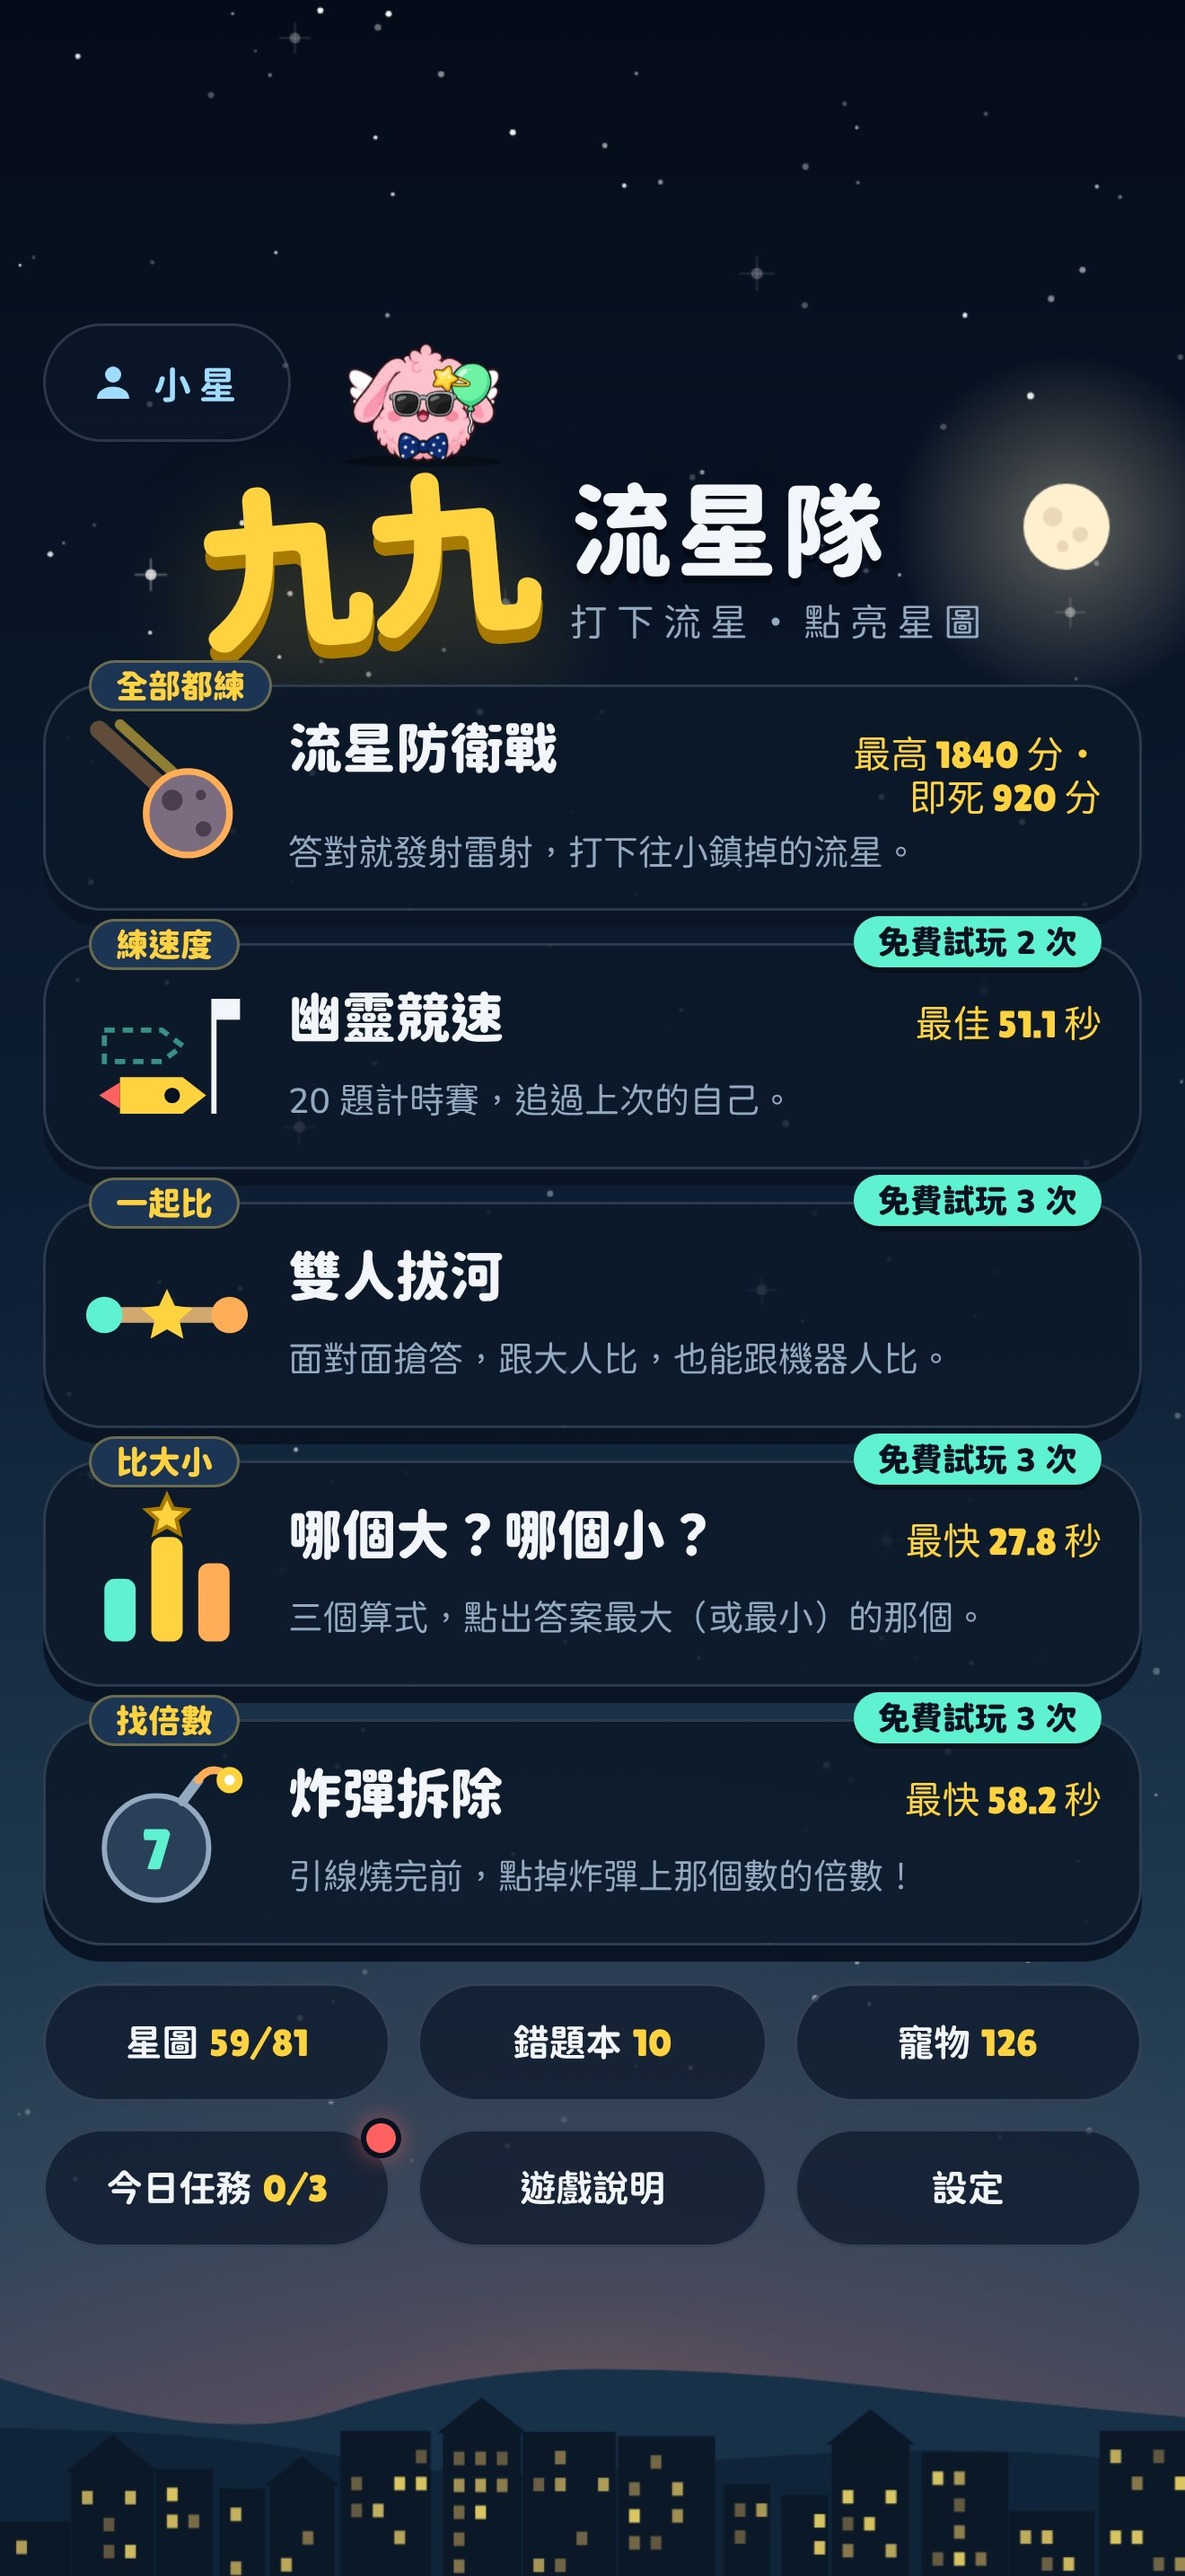
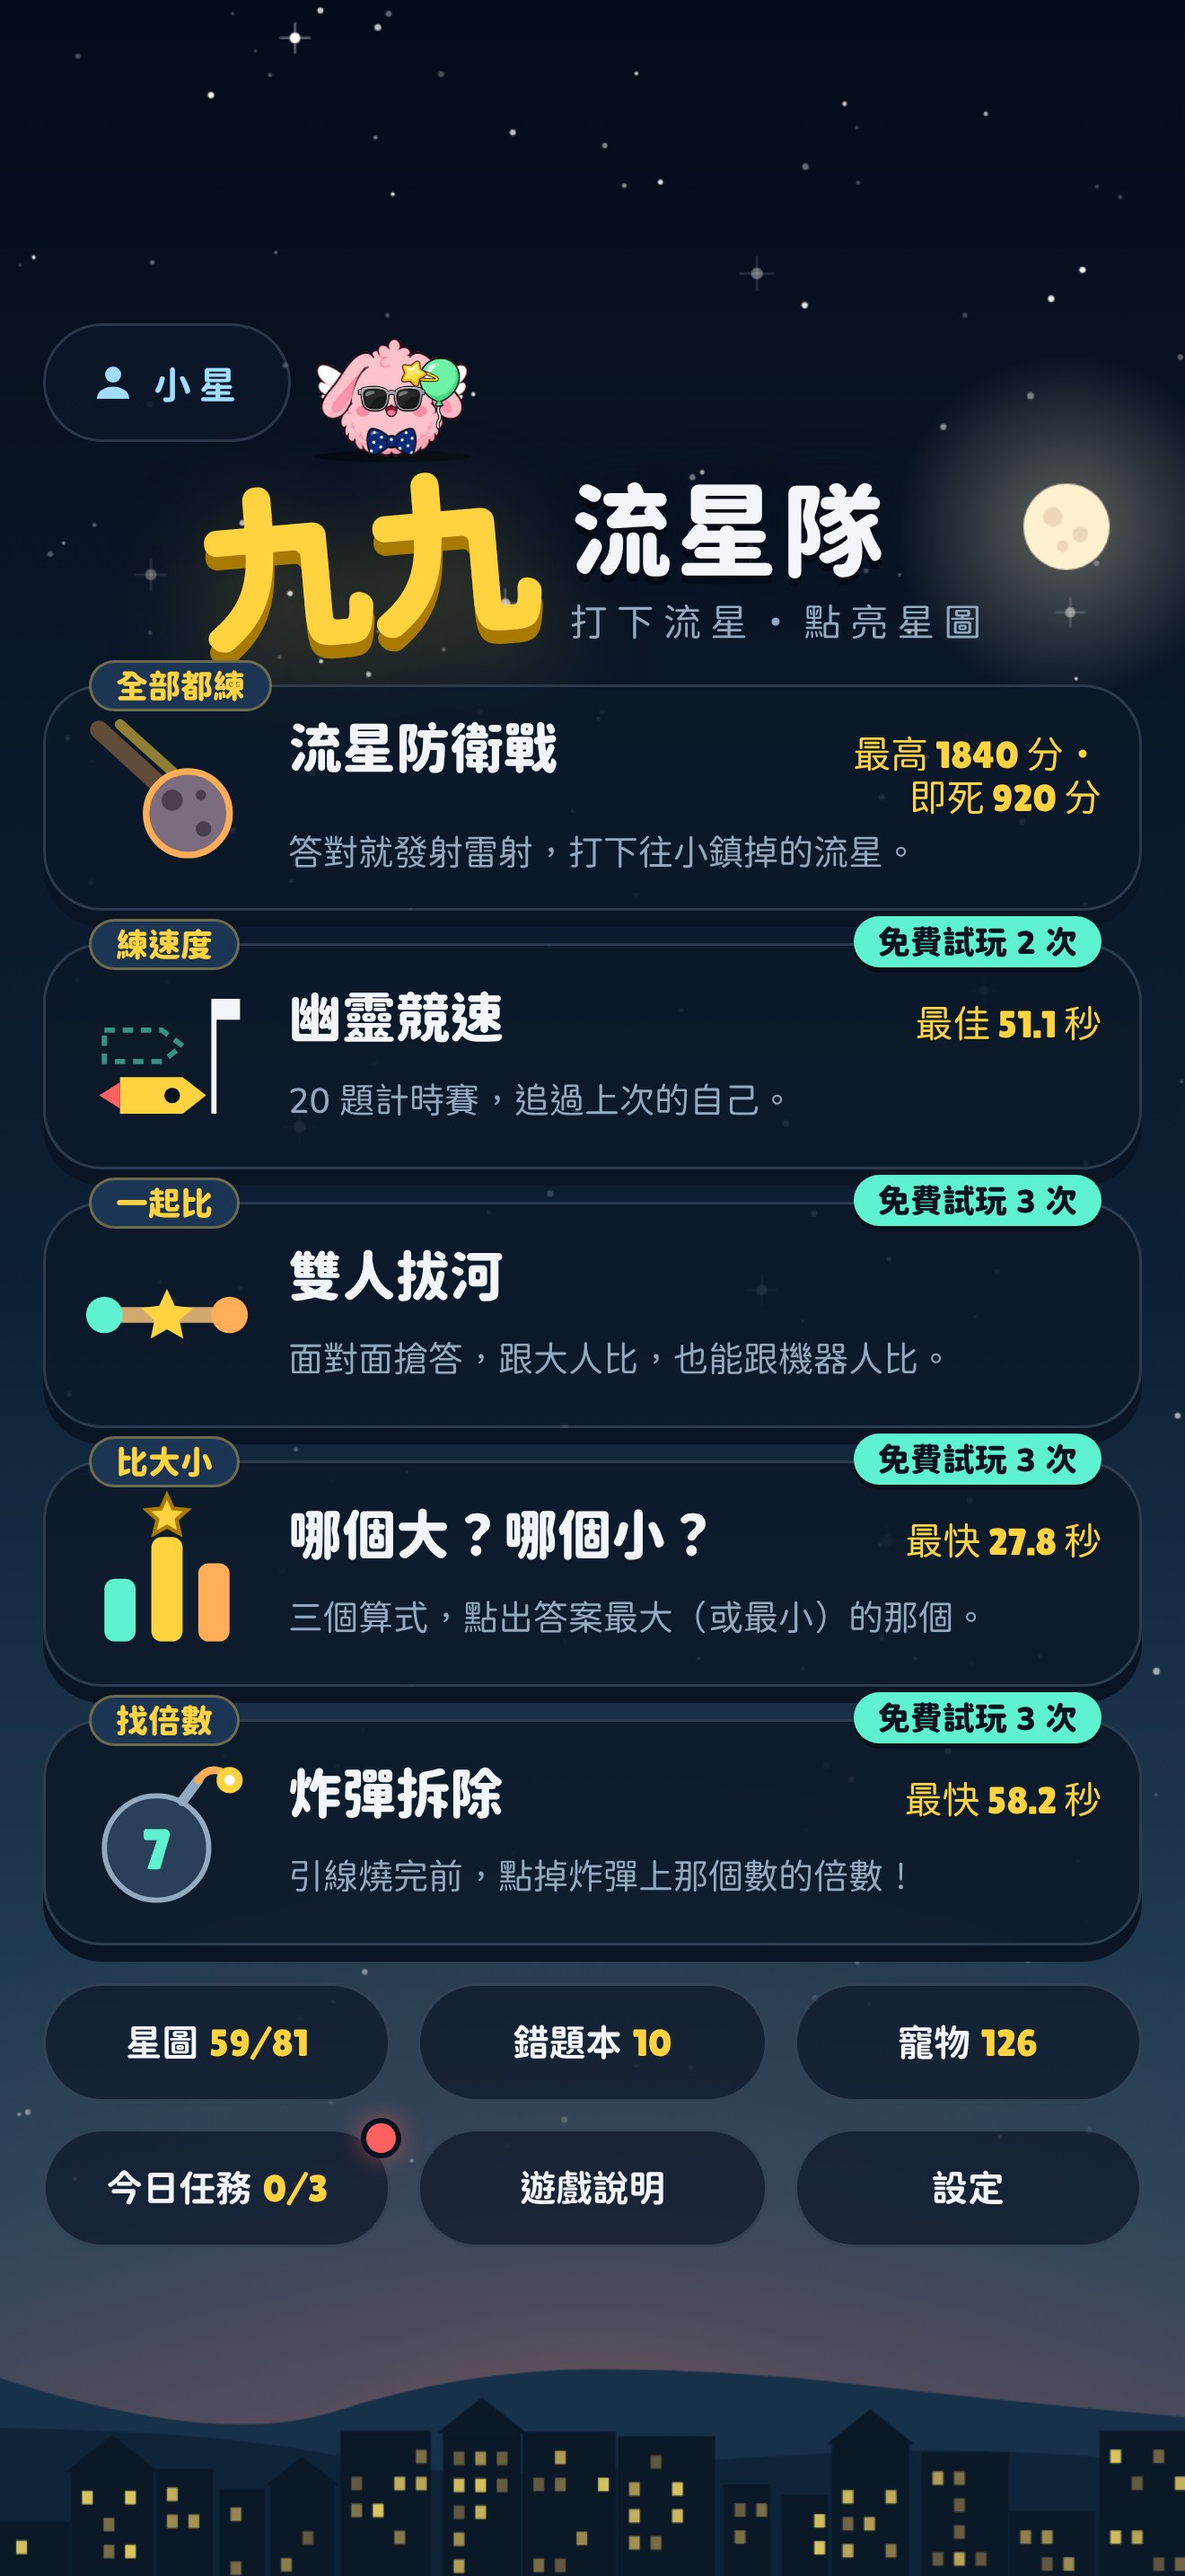
iOS build 號改成 4；截圖工具等開場動畫播完；CLAUDE.md 補上 App 內嵌網頁讀不到折線的來源
Claude-Session: https://claude.ai/code/session_01WtYHKojjdEZ4PPoAyLQNbG

diff --git a/CLAUDE.md b/CLAUDE.md
@@ -138,7 +138,7 @@
 - **開場動畫**：啟動最後 `introStart()` 量好位置後在 `<html>` 加 `.intro`（約 2.6 秒；原本 1.5 秒，實機看太快，流星還沒看清楚就炸了）：一顆寫著「9 × 9」的流星（`.intro-fx` 裡的 `.intro-met`）掉到標題字的位置、雷射從螢幕下緣射上來、炸開（擴散環＋火花）變成標題（中日文「九九」、英文「9×9」），副標滑入、五張遊戲卡依序升上來、下排與「誰在玩」淡入。**用算式不用文字**：三種語言都一樣，一秒內示範玩法，也順便告訴外國人「九九」就是 9 × 9。`--ix`／`--iy`（標題字中心）、`--il`／`--ia`（雷射長度與角度）由 JS 設在 `.intro-fx` 上。只動 `opacity`／`transform`（動 `.brand` 的子元素，不動 `.brand` 本身：月亮與寵物走道量的位置才不變），**不擋點擊**；碰一下螢幕、按鍵或 3 秒後拿掉 `.intro`；減少動態（`RM`）或量不到位置時不播。只在打開 App 那一次，從遊戲回主選單不播。不做獨立的片頭畫面（孩子想馬上玩）。
 - 任何視覺效果都要尊重 `prefers-reduced-motion`（`RM` 旗標）：`spark()` 粒子剩四分之一、`frame()` 不畫全螢幕閃白、`shake()` 不震、`banner()` 改用計時隱藏（CSS 動畫被縮到 .01ms 時 `forwards` 會讓橫幅瞬間消失）。
 - **三種語言版面要一樣**（檢查員量過 320×568 到 1920×1080）：主選單下排 chip 在 ≤ 360px 寬可以把數字換到第二行（英日文「Star Map 0/145」放不下）；日文試玩牌子寫「おためし3回」（「あと」會壓到隔壁卡）；炸彈 SVG `pointer-events:none`（爆炸後放大到看不見仍擋得住 320 寬的「主選單」鈕）；英日字串寫短，不要讓按鈕、標題、跑道名牌比中文多一行；主選單下排 chip 三欄等寬（`minmax(0,1fr)`）；主選單最高分每一項包 `.nw` 不斷行、`.m-t` 可換行（名字加最高分放不下時最高分換到下一行，卡片不撐出螢幕）；日文 `:lang(ja)` 行高統一 1.35（Zen Maru Gothic 預設 1.45、Chiron 1.35）、模式名 18px；短字串 `text-wrap:balance`、長段落 `pretty`（遊戲說明的 `.rules li` 例外用一般換行：iPhone Safari 的 `pretty` 會重排整段，中文有的行只到三分之二就換行）；停用的 `.btn` 是灰色（`.btn:disabled`），會捲動的卡片與畫面（`.card`、`#s-menu`／`#s-map`／`#s-pet`、回家的夥伴清單）`overscroll-behavior:none`（iPhone 捲到頂再往下拉不會橡皮筋回彈把標題列拉下來），不留單一個字在下一行；`.card>*` 不縮（卡片比螢幕高時捲動，不擠扁）；`.topbar` 的返回鈕與計時不折行；矮螢幕（≤ 700px）拔河的名牌藏起來（會壓到繩子），≤ 600px 炸彈說明小字省掉；寵物配件鈕固定 86px 寬、挑蛋區固定寬度。主選單遊戲卡的 `.m-tag` 在 ≤ 600px 高縮小一號（不然第一張卡的標籤貼到「九九」大字）；只練加減／都練的副標 `note.add`／`note.both` 英日文要短到 320 寬一行（兩行主選單會多捲 11px）。
-- **iPhone Duo（摺疊機，2026-10 上市）**：WebKit 官方公布的 Safari 內尺寸（CSS 像素，寬 × 高）：外螢幕直拿 382 × 580～618、內螢幕直拿 669 × 867～902、內螢幕橫拿 951 × 585～620、內螢幕並排兩個視窗 385 × 571～609（App 裡沒有網址列，高度再多一些）；1.4 以前文件寫的 466×678／626×890 是第三方換算的，不對。都走手機版面（內螢幕寬度沒到平板的 700）。內螢幕直拿時**折線是橫的、在螢幕正中間**：`#m-dock` 在「寬 560～699、寬高比 ≥ 13:20、直向」時最小高度是半個螢幕（`50dvh − safe-area-inset-bottom`），流星防衛戰的地平線剛好在折線上（Ian 在 Xcode 模擬器看到地平線原本在折線下面一點）。折線／半折的網頁 API（`device-posture`、`viewport-segments`）在 Safari 27.1 還是功能旗標後面的預覽，內嵌網頁拿不拿得到不明，所以流星只看螢幕形狀（攤平時地平線在正中間也沒壞處）。**哪個大、炸彈只在半折時換版面**（Ian 要求攤平跟一般一樣）：可以點的那一半包在 `.fold-low`（平常 `display:contents`，版面不變），同樣的螢幕形狀再加 `(device-posture:folded)` 或 `(vertical-viewport-segments:2)` 時，題目／炸彈在上半（放大）、三個算式／12 格與「下一顆」在下半（格子縮到 50px 高，爆炸後多了訊息也不超過折線）；系統不回報姿勢時這段永遠不成立。用 Chromium 的姿勢模擬測過（669×867～950），**iPhone Duo 的 App 裡會不會成立還沒驗證**。拔河本來就上下各半。2026-10-23 用舊尺寸檢查過主選單、流星、拔河、星圖、寵物、設定，玩到一半開合、轉橫也正常（畫布每幀核對尺寸、`GY` 每幀跟著鍵盤區）。
+- **iPhone Duo（摺疊機，2026-10 上市）**：WebKit 官方公布的 Safari 內尺寸（CSS 像素，寬 × 高）：外螢幕直拿 382 × 580～618、內螢幕直拿 669 × 867～902、內螢幕橫拿 951 × 585～620、內螢幕並排兩個視窗 385 × 571～609（App 裡沒有網址列，高度再多一些）；1.4 以前文件寫的 466×678／626×890 是第三方換算的，不對。都走手機版面（內螢幕寬度沒到平板的 700）。內螢幕直拿時**折線是橫的、在螢幕正中間**：`#m-dock` 在「寬 560～699、寬高比 ≥ 13:20、直向」時最小高度是半個螢幕（`50dvh − safe-area-inset-bottom`），流星防衛戰的地平線剛好在折線上（Ian 在 Xcode 模擬器看到地平線原本在折線下面一點）。折線／半折的網頁 API（`device-posture`、`viewport-segments`）在 Safari 27.1 還是功能旗標後面的預覽；**App 的內嵌網頁（WKWebView）目前開不了**（Apple 工程師 2026-09 在開發者論壇 thread 848036：兩個都是 Safari 的實驗功能、「cannot be enabled in WKWebView」，建議由原生程式把折線位置傳給網頁；WebKit 原始碼兩個設定的預設值也是關；Android 的 System WebView 同樣關著），所以流星只看螢幕形狀（攤平時地平線在正中間也沒壞處）。**哪個大、炸彈只在半折時換版面**（Ian 要求攤平跟一般一樣）：可以點的那一半包在 `.fold-low`（平常 `display:contents`，版面不變），同樣的螢幕形狀再加 `(device-posture:folded)` 或 `(vertical-viewport-segments:2)` 時，題目／炸彈在上半（放大）、三個算式／12 格與「下一顆」在下半（格子縮到 50px 高，爆炸後多了訊息也不超過折線）；系統不回報姿勢時這段永遠不成立。用 Chromium 的姿勢模擬測過（669×867～950），**依上面 Apple 的說法，iPhone Duo 的 App 裡目前不會成立**（只有 Safari 開了功能旗標才會；請 Ian 在 Xcode 模擬器半折確認過再對外說有這個版面）。要在 App 裡成立得寫原生程式讀折線（`UIView.reservedRegions(kind: .division)`，iOS 27.1 SDK）傳給網頁，或等 Capacitor 9 的 fold／posture API（官方說 coming soon）。上架不需要：審查規範沒有提到 Duo，「Made for iPhone Duo」徽章依 Apple 的截圖規格頁是上傳 Duo 截圖（外 1398×2034、內 2007×2853）就有，2027 年 4 月起送審要附 Duo 截圖。拔河本來就上下各半。2026-10-23 用舊尺寸檢查過主選單、流星、拔河、星圖、寵物、設定，玩到一半開合、轉橫也正常（畫布每幀核對尺寸、`GY` 每幀跟著鍵盤區）。
 - 平板（`min-width:700px` 且 `min-height:700px`）把容器放大一號：模式卡 560、鍵盤 520、卡片 480、星圖 660（12×12 的格子才 ≥ 44px）。iPad 橫向沒有「請轉直」提示，直接玩。
 - **關閉的統一規則**：
   - **全畫面**（寵物、星圖、各遊戲）：左上「‹ 主選單」（遊戲中是右上暫停鈕）。
